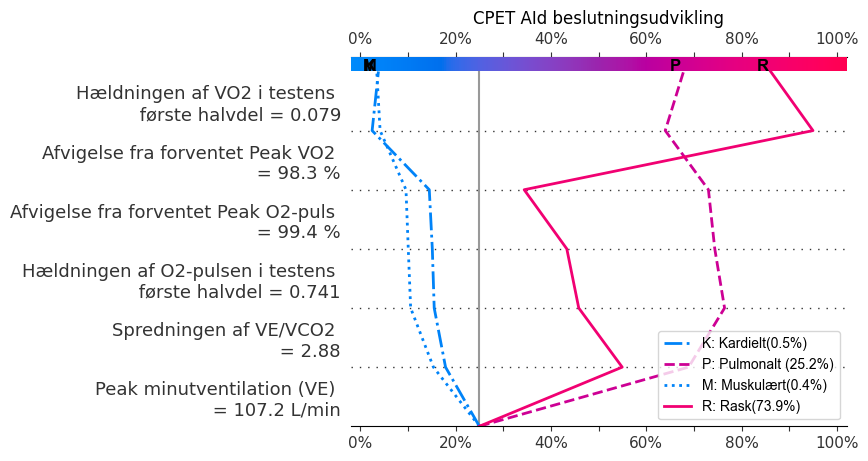
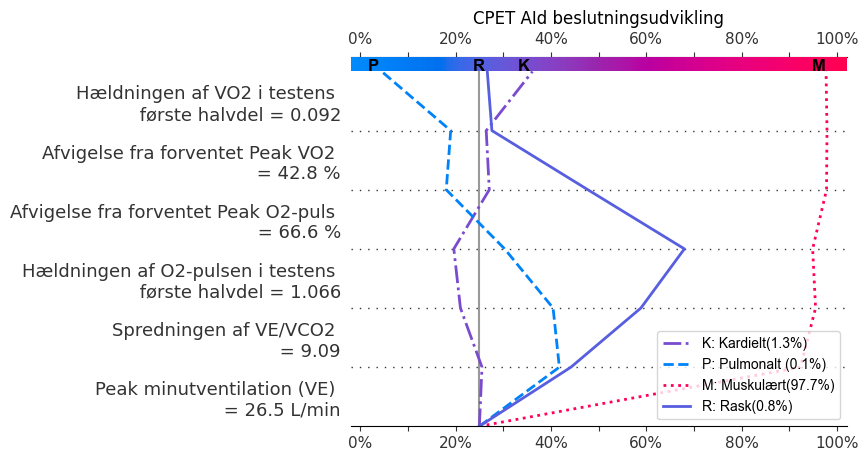
PDF-print bruger image objekt nu

diff --git a/CPET-AId/PDF_print.py b/CPET-AId/PDF_print.py
@@ -1,4 +1,4 @@
-def report(filename, R_valid=False, title=None, barchart = None, filepath_for_png = None):
+def report(filename, R_valid=False, title=None, barchart = None, decisionplot = None):
     """Function to generate PDF, 1.input: name of the file, 2.input the title,
       3.input data for the barchart, 4.input data for the filepath for .png, 5.input is the R-value"""
     from reportlab.pdfgen import canvas
@@ -71,12 +71,12 @@ def report(filename, R_valid=False, title=None, barchart = None, filepath_for_pn
     renderPDF.draw(drawing,c,x_centered,505) #placering af barchart
     
     c.drawImage(
-        filepath_for_png,
+        decisionplot,
         50,
-        50,
-        height=500,
+        150,
+        height=280,
         width=500,
-        preserveAspectRatio=True,
+        # preserveAspectRatio=True,
     )
 
     text = """Et søjlediagram over sandsynlighederne for at et fysiologisk system er årsagen til arbejdsintolerance."""

diff --git a/CPET-AId/Visualisering.py b/CPET-AId/Visualisering.py
@@ -2,6 +2,7 @@ import shap
 import matplotlib.pyplot as plt
 from reportlab.lib import colors
 from reportlab.graphics.charts.barcharts import VerticalBarChart
+from reportlab.lib.utils import ImageReader
 import numpy as np
 
 def Barchart(data):
@@ -271,7 +272,11 @@ def decisionplot(Class_proba, feature_names_values, shap_values, base_values):
     ax.legend([CardiacLine,PulmoLine,MuscoLine, HealthyLine], classification_names, loc = location)
     
     plt.savefig("CPET-AId/CPET-AId/decisionplot.png", bbox_inches="tight")
-    # plt.show()
+
+    decisionplotImage = ImageReader("CPET-AId\\CPET-AId\\decisionplot.png")
+    plt.close()
+    return decisionplotImage
+
 
 
 # #Test af kode 

diff --git a/CPET-AId/CPET_AId.py b/CPET-AId/CPET_AId.py
@@ -15,13 +15,13 @@ def CPET_AId(data, filepath):
         R_validation, feature_names_values, shap_values, base_values = Post_processering.post_processing(peak_R, pre_processed_data) 
 
         barchart = Visualisering.Barchart(CPET_AId_proba)
-        Visualisering.decisionplot(CPET_AId_proba, feature_names_values, shap_values, base_values)
+        decisionplot = Visualisering.decisionplot(CPET_AId_proba, feature_names_values, shap_values, base_values)
 
         
         PDF_print.report(title="CPET AId resultat",
                           filename=filepath,
                           barchart= barchart,
                           R_valid= R_validation,
-                          filepath_for_png="CPET-AId/CPET-AId/decisionplot.png")
+                          decisionplot=decisionplot)
     else:
         PDF_print.PDF_error(filepath)